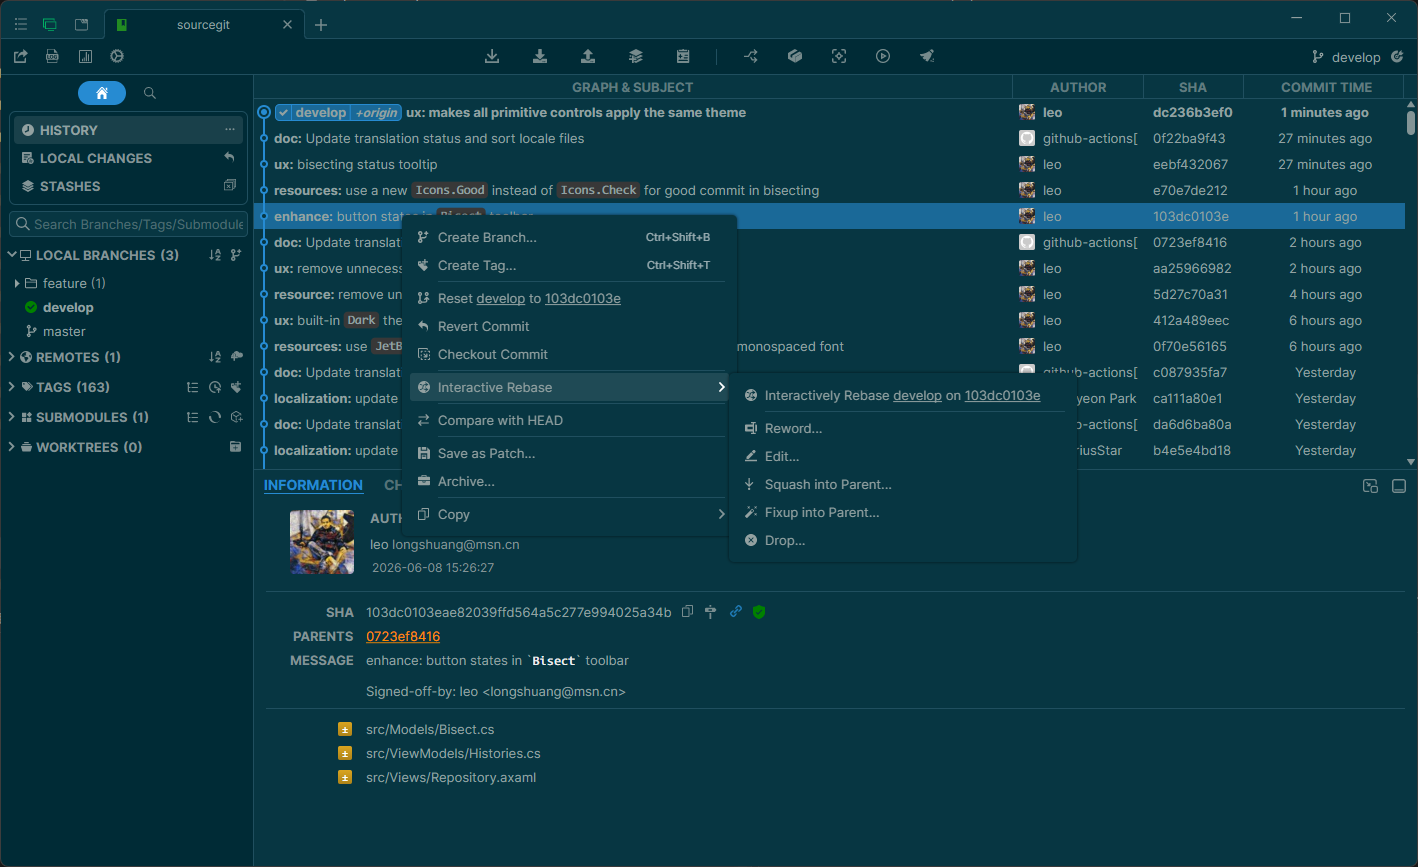
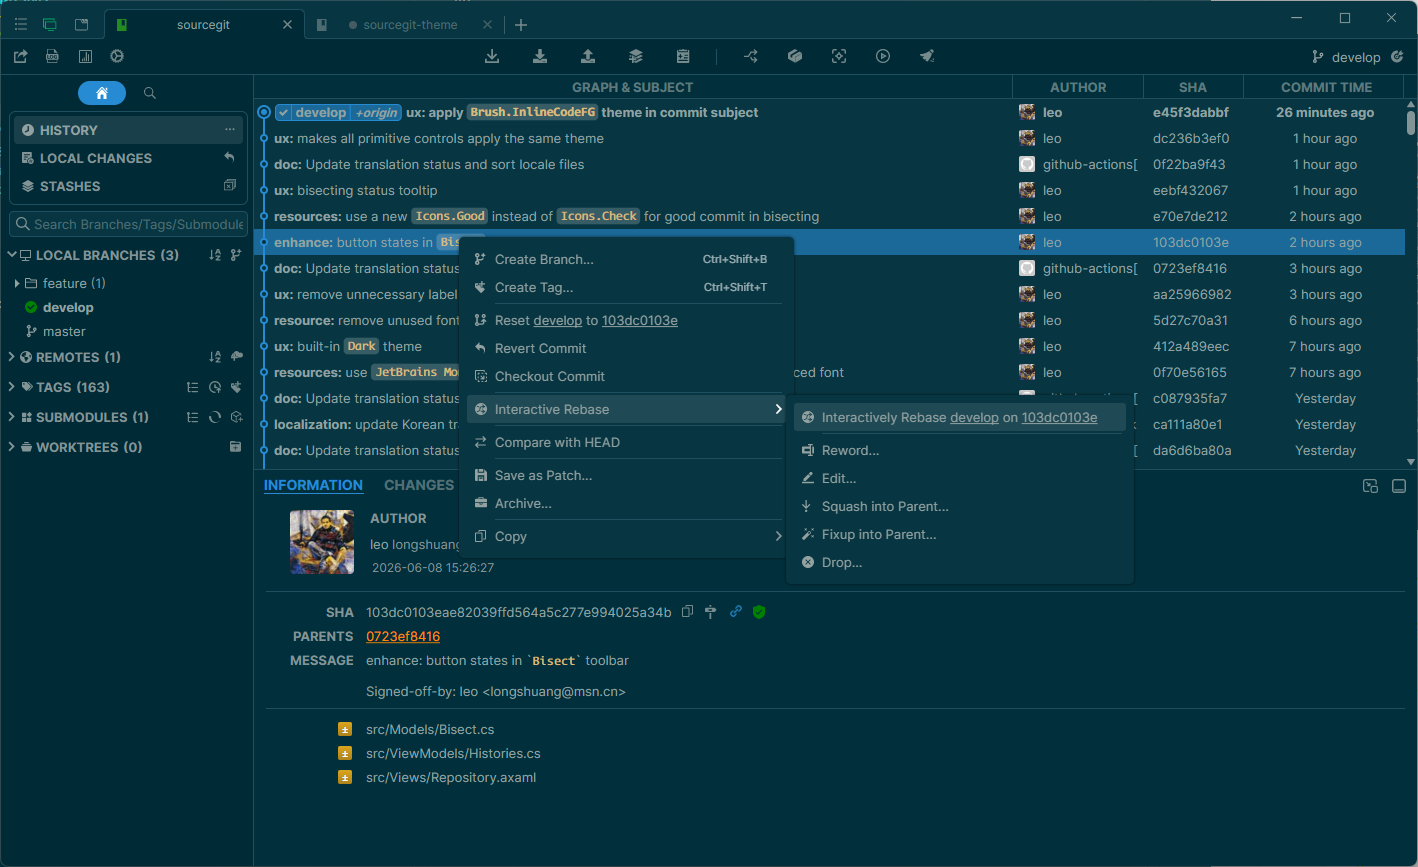
Add new theme `Solarized Light Bordered` inspired by `Solarized Light`

diff --git a/README.md b/README.md
@@ -40,6 +40,10 @@ Open `Preference` -> `Appearance`, choose the json file you just created in `The
 
 ![Solarized Dark Bordered](screenshots/Solarized_Dark_Bordered.png)
 
+[Solarized Light Bordered](./themes/Solarized_Light_Bordered.json) inspierd by `Solarized Light`
+
+![Solarized Light Bordered](screenshots/Solarized_Light_Bordered.png)
+
 [Cyberpunk 2077](./themes/Cyberpunk2077.json) from [@berkanuslu](https://github.com/berkanuslu) based on [Cyberpunk 2077 UI Presentation](https://www.artstation.com/artwork/18mLB8).
 
 ![Cyberpunk2077](screenshots/Cyberpunk2077.png)